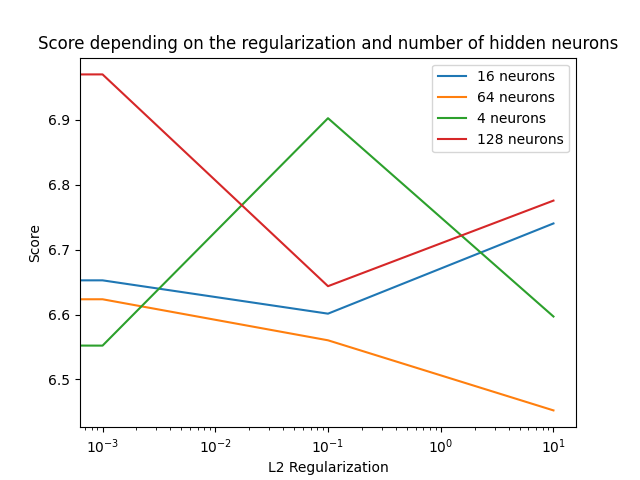
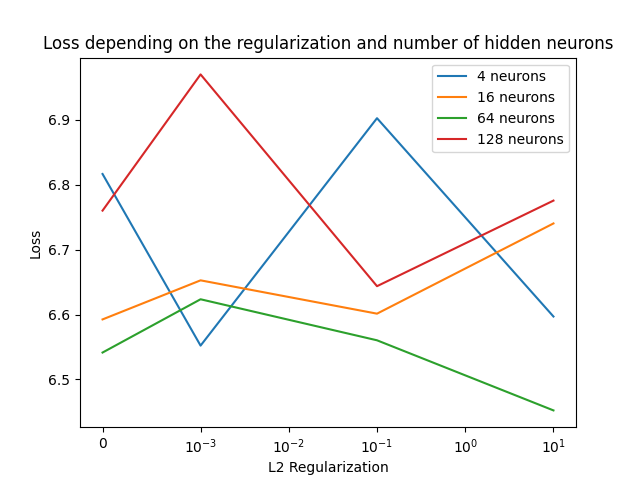
Run more experiments

diff --git a/code/experiment_notebook.py b/code/experiment_notebook.py
@@ -186,17 +186,16 @@ for thresh1, thresh2 in [(100,50_000), (100,10_000), (50,10_000)]:
     print()
     print(thresh1, thresh2)
 
-    xltdf = train_df[(train_df["favorites_count"] > thresh1) & train_df["favorites_count"] < thresh2].copy()
+    xltdf = train_df[(train_df["favorites_count"] > thresh1) & (train_df["favorites_count"] < thresh2)].copy()
     X_train, y_train, ms = extract_continuous_features(xltdf)
     X_val, y_val, _ = extract_continuous_features(val_df, mean_and_std=ms)
-    
     model1 = get_trained_model(X_train, y_train, epochs=1000)
     
     xltdf2 = train_df[train_df["favorites_count"] > thresh2].copy()
-    X_train2, y_train2 = extract_continuous_features(xltdf2)
+    X_train2, y_train2, _ = extract_continuous_features(xltdf2, mean_and_std=ms)
     X_train2 = X_train2[:, 0:1] # Only keep the favorites count
     
-    model2 = get_trained_model(X_train, y_train, linear=True, epochs=1000)
+    model2 = get_trained_model(X_train2, y_train2, linear=True, epochs=1000)
 
     val_predictions = model1.predict(X_val)
     val_predictions2 = model2.predict(X_val[:, 0:1])
@@ -224,84 +223,84 @@ for thresh1, thresh2 in [(100,50_000), (100,10_000), (50,10_000)]:
     scores.append((overall, thresh1, thresh2))
 json.dump(scores, open("scores4.json", "w"))
 
-# #%%
-# # Experiment: baseline model: k-NN
+#%%
+# Experiment: baseline model: k-NN
 
-# from sklearn.neighbors import KNeighborsRegressor
+from sklearn.neighbors import KNeighborsRegressor
 
-# alpha_values = [2,10,20]
-# k_values=[3,15]
-# scores = []
-# for alpha in alpha_values:
-#     for k in k_values:
-#         print()
-#         print(alpha, k)
+alpha_values = [2,10,20]
+k_values=[3,15]
+scores = []
+for alpha in alpha_values:
+    for k in k_values:
+        print()
+        print(alpha, k)
 
-#         X_train, y_train, ms = extract_continuous_features(train_df)
-#         X_val, y_val, _ = extract_continuous_features(val_df, mean_and_std=ms)
-#         X_val[:,][0]*=alpha
-#         X_train[:,][0]*=alpha
+        X_train, y_train, ms = extract_continuous_features(train_df)
+        X_val, y_val, _ = extract_continuous_features(val_df, mean_and_std=ms)
+        X_val[:,0]*=alpha
+        X_train[:,0]*=alpha
 
-#         model=KNeighborsRegressor(n_neighbors=k)
-#         model.fit(X_train, y_train)
+        model=KNeighborsRegressor(n_neighbors=k)
+        model.fit(X_train, y_train)
         
-#         # evaluate the model and the quality of its predictions on the validation set
-#         val_predictions = model.predict(X_val)
+        # evaluate the model and the quality of its predictions on the validation set
+        val_predictions = model.predict(X_val)
 
         
-#         losses_nn = []
-#         for i, (_, row) in enumerate(val_df.iterrows()):
-#             losses_nn.append(abs(val_predictions[i] - y_val[i]).item())
+        losses_nn = []
+        for i, (_, row) in enumerate(val_df.iterrows()):
+            losses_nn.append(abs(val_predictions[i] - y_val[i]).item())
 
 
-#         losses = losses_nn
-#         overall = sum(losses) / len(losses)
-#         print("overall", overall)
-#         scores.append((overall, alpha, k))
+        losses = losses_nn
+        overall = sum(losses) / len(losses)
+        print("overall", overall)
+        scores.append((overall, alpha, k))
 
-# # save the experiments results
-# json.dump(scores, open("scores5.json", "w"))
+# save the experiments results
+json.dump(scores, open("scores5.json", "w"))
 
-# #%%
-# # Experiment: baseline model: linear regression
+#%%
+# Experiment: baseline model: linear regression
 
-# scores = []
+scores = []
 
-# for reg in [0.0, 0.001, 0.1, 10.0]:
-#     print()
-#     print(reg)
+for reg in [0.0, 0.001, 0.1, 10.0]:
+    print()
+    print(reg)
 
-#     X_train, y_train, ms = extract_continuous_features(train_df)
-#     X_val, y_val, _ = extract_continuous_features(val_df, mean_and_std=ms)
+    X_train, y_train, ms = extract_continuous_features(train_df)
+    X_val, y_val, _ = extract_continuous_features(val_df, mean_and_std=ms)
 
-#     # evaluate the model and the quality of its predictions on the validation set
-#     model = get_trained_model(X_train, y_train, reg=reg, epochs=50, linear=True)
+    # evaluate the model and the quality of its predictions on the validation set
+    model = get_trained_model(X_train, y_train, reg=reg, epochs=50, linear=True)
     
-#     val_predictions = model.predict(X_val)
+    val_predictions = model.predict(X_val)
 
     
-#     losses_nn = []
-#     for i, (_, row) in enumerate(val_df.iterrows()):
-#         losses_nn.append(abs(val_predictions[i] - y_val[i]).item())
+    losses_nn = []
+    for i, (_, row) in enumerate(val_df.iterrows()):
+        losses_nn.append(abs(val_predictions[i] - y_val[i]).item())
 
 
-#     losses = losses_nn
-#     overall = sum(losses) / len(losses)
-#     print("overall", overall)
-#     scores.append((overall, reg))
+    losses = losses_nn
+    overall = sum(losses) / len(losses)
+    print("overall", overall)
+    scores.append((overall, reg))
 
-# # save the experiments results
-# json.dump(scores, open("scores6.json", "w"))
+# save the experiments results
+json.dump(scores, open("scores6.json", "w"))
 
-# # %%
-# # Experiment: baseline model: decision tree alone
+# %%
+# Experiment: baseline model: decision tree alone
 
-# losses = []
-# for i, (_, row) in enumerate(val_df.iterrows()):
-#     losses.append(abs(val_preds[i] - y_val[i]).item())
-# overall = sum(losses) / len(losses)
-# print("overall", overall)
-# json.dump(overall, open("scores7.json", "w"))
+losses = []
+for i, (_, row) in enumerate(val_df.iterrows()):
+    losses.append(abs(val_preds[i] - y_val[i]).item())
+overall = sum(losses) / len(losses)
+print("overall", overall)
+json.dump(overall, open("scores7.json", "w"))
 
 # %%
 # Experiment: baseline model: decision tree alone

diff --git a/code/figures.py b/code/figures.py
@@ -18,24 +18,42 @@ plt.savefig("figures/features_importance.png")
 data = json.load(open("scores2.json", "r"))
 data_same_tresh = [d for d in data if d[1] == d[2]]
 data_double_tresh = [d for d in data if d[1] != d[2]]
-plt.title("Score depending on the treshold")
+plt.title("Loss depending on the treshold")
 plt.plot([d[2] for d in data_same_tresh], [d[0] for d in data_same_tresh], label="Same treshold")
 plt.plot([d[2] for d in data_double_tresh], [d[0] for d in data_double_tresh], label="Halved train treshold treshold")
-plt.ylabel("Score")
+plt.ylabel("Loss")
 plt.xlabel("Evaluation treshold")
 plt.legend()
 plt.savefig("figures/treshold.png")
 # %%
 # Load the data for the hyperparameter search: (score, neurons, regularization)
-plt.title("Score depending on the regularization and number of hidden neurons")
+plt.title("Loss depending on the regularization and number of hidden neurons")
 data = json.load(open("scores3.json", "r"))
-for neurons in set([d[1] for d in data]):
+for neurons in sorted(set([d[1] for d in data])):
     plt.plot([d[2] for d in data if d[1] == neurons], [d[0] for d in data if d[1] == neurons], label=f"{neurons} neurons")
-plt.ylabel("Score")
+plt.ylabel("Loss")
 plt.xlabel("L2 Regularization")
-plt.xscale("log")
+plt.xscale("symlog", linthresh=0.001)
 plt.legend()
 plt.savefig("figures/hyperparameters.png")
 # %%
-# Load the data for the k-NN parameter search: (score, k, scaling factor)
+# Load the data for the k-NN parameter search: (score, scaling factor, k)
 data = json.load(open("scores5.json", "r"))
+k_values = set([d[2] for d in data])
+for k in k_values:
+    plt.plot([d[1] for d in data if d[2] == k], [d[0] for d in data if d[2] == k], label=f"k={k}")
+plt.title("Loss depending on the scaling factor and k")
+plt.ylabel("Loss")
+plt.xlabel("Scaling factor")
+plt.legend()
+plt.savefig("figures/knn.png")
+# %%
+# Load the data for the Linear Regression parameter search: (score, regularization)
+data = json.load(open("scores6.json", "r"))
+plt.plot([d[1] for d in data], [d[0] for d in data])
+plt.title("Loss depending on the regularization")
+plt.xlabel("L2 Regularization")
+plt.xscale("symlog", linthresh=0.001)
+plt.ylabel("Loss")
+plt.savefig("figures/linear_regression.png")
+# %%
